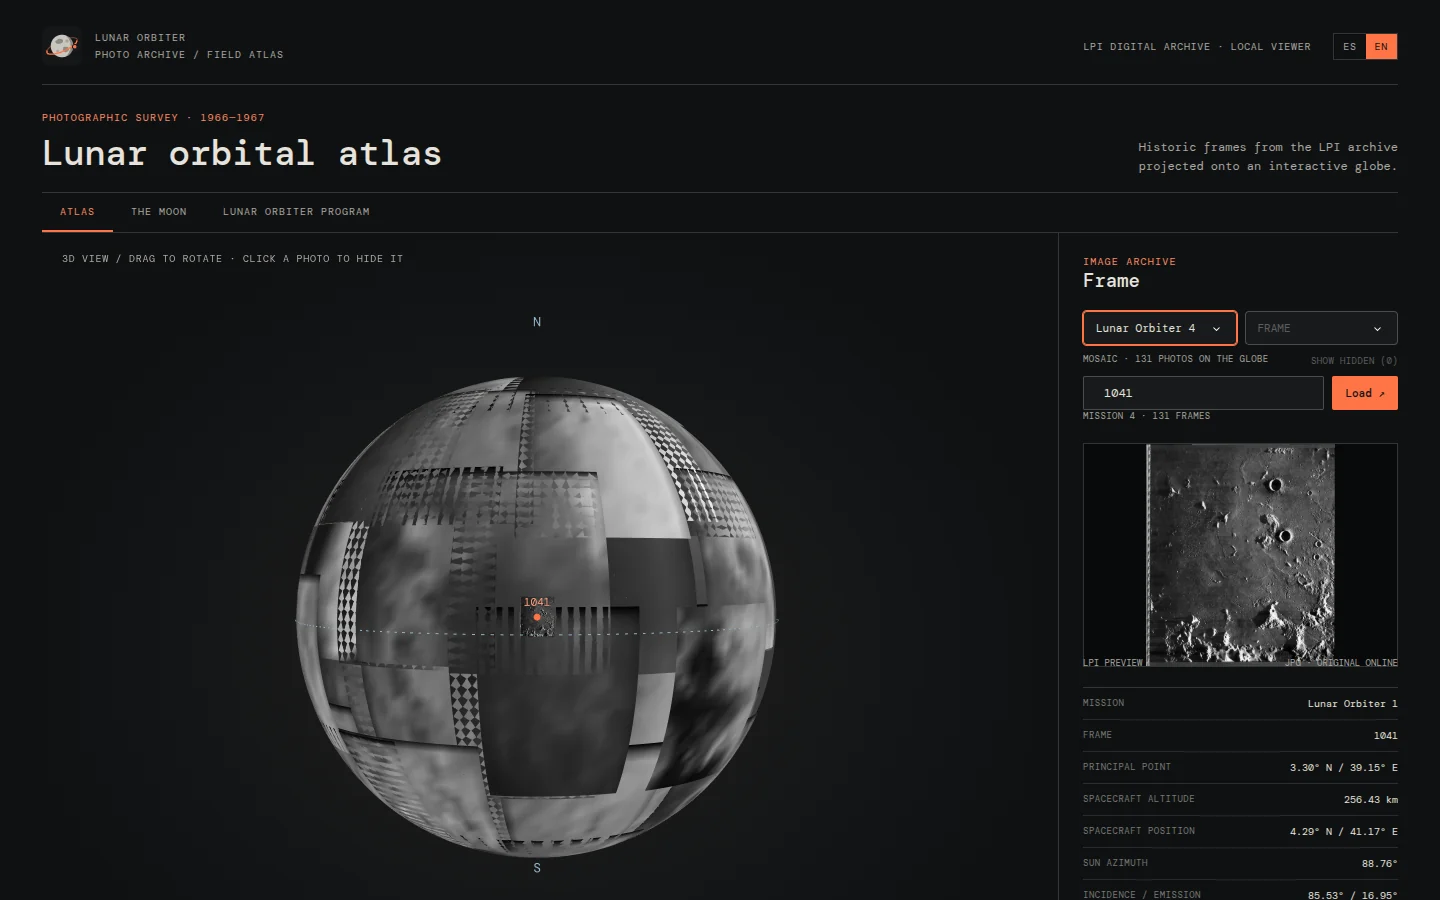
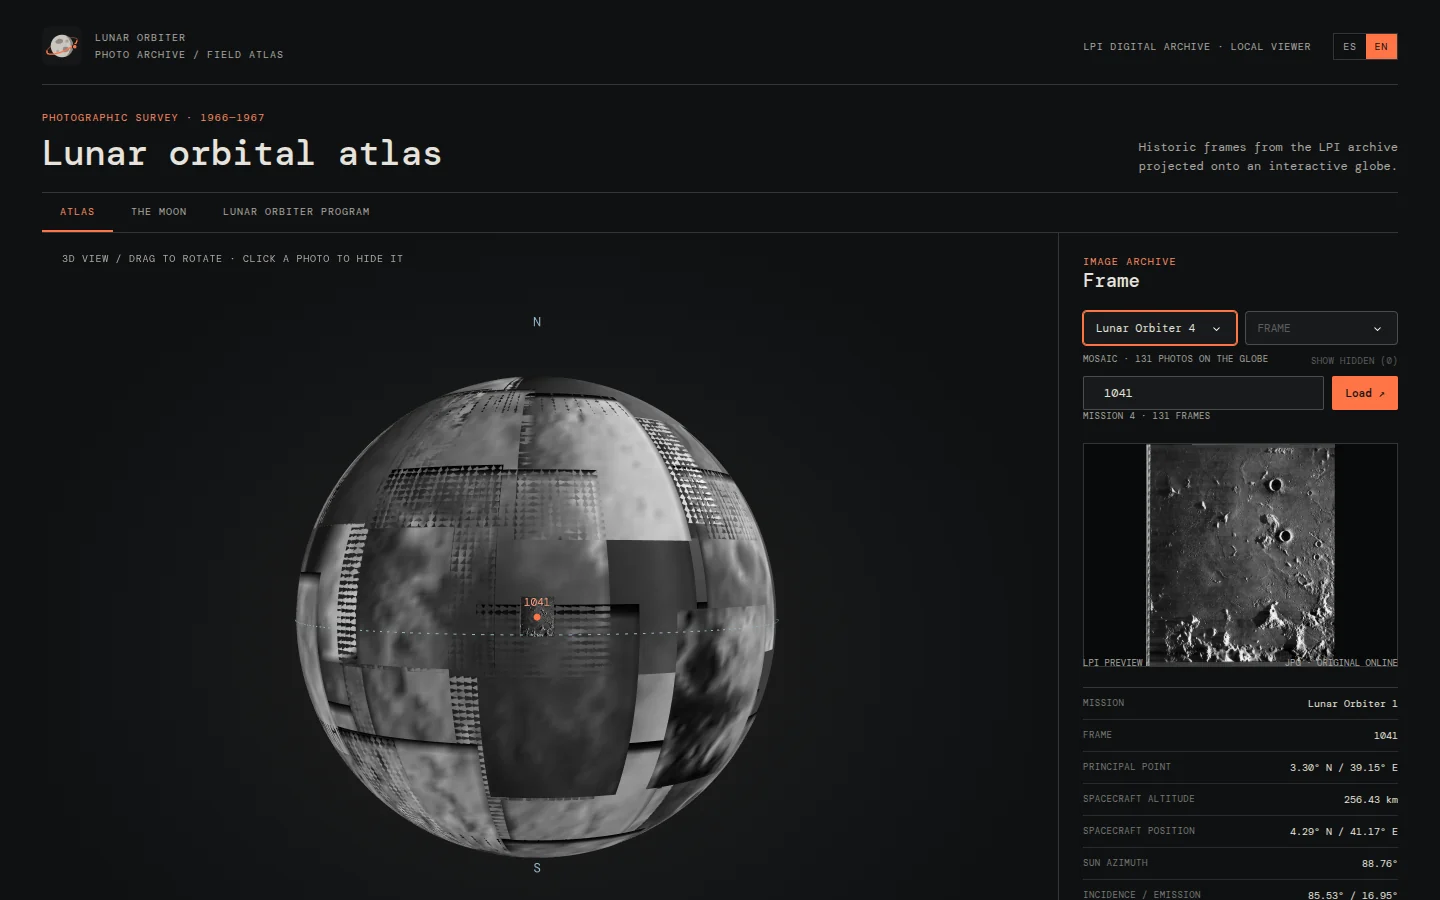
Scale tile resolution with photo size under a vertex budget
Plotly colours meshes per vertex, so resolution costs vertices. Tiles now get
3 px per degree (10–48 px) and the mosaic is capped at 90,000 vertices:
missions 1–3 get lighter while large high-altitude frames go from 20 px to
48 px (30 px for mission 4, at the cap). Intensity is sent as uint8 and frame
IDs as int16. Refresh the site screenshots.

diff --git a/orbiter/globe.py b/orbiter/globe.py
@@ -18,6 +18,7 @@ from dataclasses import dataclass
 
 import numpy as np
 import plotly.graph_objects as go
+from PIL import Image
 
 ACCENT = "#ff7547"
 BASE_SURFACE_VALUE = 112.0
@@ -38,6 +39,13 @@ REFERENCE_COLOR = "#8fb3c9"
 # Pole labels sit just outside the sphere; the axis range must include them.
 POLE_LABEL_HEIGHT = 1.18
 AXIS_LIMIT = 1.25
+# Plotly colours meshes per vertex, so every texture pixel is a vertex. Tiles get
+# pixels in proportion to their size on the globe, within these bounds, and the
+# whole mosaic is scaled down to stay under the vertex budget.
+TILE_PIXELS_PER_DEGREE = 3.0
+MIN_TILE_PIXELS = 10
+MAX_TILE_PIXELS = 48
+MESH_VERTEX_BUDGET = 90_000
 GRAY_SCALE = [[0.0, "#000000"], [1.0, "#ffffff"]]
 NO_CONTOURS = {axis: {"highlight": False} for axis in ("x", "y", "z")}
 
@@ -236,22 +244,70 @@ def _grid_triangles(height: int, width: int, offset: int) -> np.ndarray:
     )
 
 
+def _resized(texture: np.ndarray, long_side: int) -> np.ndarray:
+    """Resize a texture so its longer side is ``long_side``, keeping its aspect."""
+    height, width = texture.shape
+    scale = long_side / max(height, width)
+    size = (max(2, round(width * scale)), max(2, round(height * scale)))
+    if size == (width, height):
+        return texture
+    image = Image.fromarray(texture).resize(size, Image.Resampling.LANCZOS)
+    return np.asarray(image, dtype=np.uint8)
+
+
+def tile_textures(tiles: list[GlobeImage]) -> list[np.ndarray]:
+    """Choose each tile's mesh resolution from its size on the globe.
+
+    Big patches (high-altitude frames) get up to ``MAX_TILE_PIXELS`` on their
+    longer side and tiny ones ``MIN_TILE_PIXELS``. If the mosaic would exceed
+    ``MESH_VERTEX_BUDGET`` vertices, every tile shrinks by the same factor.
+    Textures are never enlarged beyond what the tile provides.
+    """
+    wanted = [
+        min(
+            max(
+                round(TILE_PIXELS_PER_DEGREE * patch_width_degrees(tile.altitude_km)),
+                MIN_TILE_PIXELS,
+            ),
+            MAX_TILE_PIXELS,
+            max(tile.texture.shape),
+        )
+        for tile in tiles
+    ]
+    # Vertices are about long_side² × aspect, so area scales with the square.
+    area = sum(
+        side * side * min(tile.texture.shape) / max(tile.texture.shape)
+        for side, tile in zip(wanted, tiles, strict=True)
+    )
+    factor = min(1.0, math.sqrt(MESH_VERTEX_BUDGET / area)) if area else 1.0
+    return [
+        _resized(tile.texture, max(2, math.floor(side * factor)))
+        for side, tile in zip(wanted, tiles, strict=True)
+    ]
+
+
 def _tiles_mesh(tiles: list[GlobeImage]) -> go.Mesh3d:
     """Merge every tile into one mesh: one WebGL draw call instead of hundreds.
 
-    Frame IDs travel as numeric per-vertex ``customdata`` (sent in binary),
-    which keeps the payload small while still labelling each photo on hover.
+    Frame IDs travel as per-vertex ``int16`` ``customdata`` and brightness as
+    ``uint8`` intensity; Plotly sends both in binary, which keeps the payload
+    small while still labelling each photo on hover.
     """
     coordinates, intensities, triangles, frame_ids = [], [], [], []
     offset = 0
-    for index, tile in enumerate(tiles):
+    for index, (tile, texture) in enumerate(
+        zip(tiles, tile_textures(tiles), strict=True)
+    ):
         radius = TILE_RADIUS + TILE_RADIUS_STEP * (index % 7)
-        grid = np.stack([axis.ravel() for axis in _patch_grid(tile, radius)], axis=1)
-        height, width = tile.texture.shape
+        resized = GlobeImage(
+            tile.frame_id, tile.latitude, tile.longitude, tile.altitude_km, texture
+        )
+        grid = np.stack([axis.ravel() for axis in _patch_grid(resized, radius)], axis=1)
+        height, width = texture.shape
         coordinates.append(grid)
-        intensities.append(tile.texture.ravel())
+        intensities.append(texture.ravel())
         triangles.append(_grid_triangles(height, width, offset))
-        frame_ids.append(np.full(len(grid), int(tile.frame_id), dtype=np.int32))
+        frame_ids.append(np.full(len(grid), int(tile.frame_id), dtype=np.int16))
         offset += len(grid)
 
     vertices = np.concatenate(coordinates).astype(np.float32)
@@ -263,7 +319,7 @@ def _tiles_mesh(tiles: list[GlobeImage]) -> go.Mesh3d:
         i=faces[:, 0],
         j=faces[:, 1],
         k=faces[:, 2],
-        intensity=np.concatenate(intensities).astype(np.float32),
+        intensity=np.concatenate(intensities),
         intensitymode="vertex",
         colorscale=GRAY_SCALE,
         cmin=0,

diff --git a/tests/test_globe.py b/tests/test_globe.py
@@ -4,6 +4,9 @@ import pytest
 from orbiter.globe import (
     FALLBACK_PATCH_DEGREES,
     MAX_PATCH_DEGREES,
+    MAX_TILE_PIXELS,
+    MESH_VERTEX_BUDGET,
+    MIN_TILE_PIXELS,
     GlobeImage,
     _to_cartesian,
     format_coordinates,
@@ -11,17 +14,20 @@ from orbiter.globe import (
     make_globe,
     patch_contains,
     patch_width_degrees,
+    tile_textures,
     visible_images,
 )
 
 
-def _image(frame_id="1041", latitude=3.3, longitude=39.15, altitude_km=256.43):
+def _image(
+    frame_id="1041", latitude=3.3, longitude=39.15, altitude_km=256.43, size=(32, 24)
+):
     return GlobeImage(
         frame_id=frame_id,
         latitude=latitude,
         longitude=longitude,
         altitude_km=altitude_km,
-        texture=np.full((32, 24), 160, dtype=np.uint8),
+        texture=np.full(size, 160, dtype=np.uint8),
     )
 
 
@@ -99,8 +105,10 @@ def test_make_globe_draws_tiles_selection_and_marker():
         "scatter3d",
     )
     assert set(np.asarray(mosaic.customdata)) == {1042}
-    assert len(mosaic.x) == 32 * 24
-    assert len(mosaic.i) == 2 * 31 * 23
+    # A 6.3° patch gets 19 px on its long side: a 19 × 14 vertex grid.
+    assert len(mosaic.x) == 19 * 14
+    assert len(mosaic.i) == 2 * 18 * 13
+    assert np.asarray(mosaic.intensity).dtype == np.uint8
     assert int(np.max(mosaic.i)) < len(mosaic.x)
     assert selected.name == "1041"
     assert list(figure.data[-1].text) == ["1041"]
@@ -128,3 +136,31 @@ def test_patch_contains_handles_the_180_degree_meridian():
     assert patch_contains(east_edge, 0, -179.5)
     assert patch_contains(east_edge, 0, 180.5)
     assert not patch_contains(east_edge, 0, 0)
+
+
+def test_tile_textures_scale_with_patch_size():
+    small = _image("1001", altitude_km=50, size=(48, 41))
+    large = _image("4001", altitude_km=3000, size=(48, 41))
+
+    small_texture, large_texture = tile_textures([small, large])
+
+    assert max(small_texture.shape) == MIN_TILE_PIXELS
+    assert max(large_texture.shape) == MAX_TILE_PIXELS
+
+
+def test_tile_textures_never_enlarge():
+    (texture,) = tile_textures([_image(altitude_km=3000, size=(12, 10))])
+
+    assert texture.shape == (12, 10)
+
+
+def test_tile_textures_respect_the_vertex_budget():
+    tiles = [
+        _image(str(4000 + index), altitude_km=3000, size=(48, 41))
+        for index in range(200)
+    ]
+
+    textures = tile_textures(tiles)
+
+    assert sum(texture.size for texture in textures) <= MESH_VERTEX_BUDGET
+    assert max(textures[0].shape) < MAX_TILE_PIXELS

diff --git a/orbiter/catalog.py b/orbiter/catalog.py
@@ -31,13 +31,14 @@ import numpy as np
 import requests
 from PIL import Image
 
-from orbiter.globe import GlobeImage
+from orbiter.globe import MAX_TILE_PIXELS, GlobeImage
 from orbiter.lpi import USER_AGENT, fetch_mission_frames, parse_frame_page
 from orbiter.urls import ORBITER_URL, frame_url
 
 REQUEST_DELAY_SECONDS = 0.25
 DOWNLOAD_WORKERS = 3
-TILE_SIZE = (20, 20)
+# Stored at the largest size the globe may use; it downsizes per tile.
+TILE_SIZE = (MAX_TILE_PIXELS, MAX_TILE_PIXELS)
 
 
 def default_cache_dir() -> Path:

diff --git a/CLAUDE.md b/CLAUDE.md
@@ -35,6 +35,10 @@ make format    # ruff --fix + ruff format (obligatorio antes de commit)
   más resolución, marcador, ecuador y polos N/S (`hoverinfo="skip"` para que no roben
   clicks). Tamaño de cada foto según la altitud de la nave (`patch_width_degrees`).
   El click se resuelve por geometría (`image_at`), no por índices de traza.
+  Plotly colorea por vértice (1 píxel = 1 vértice): `tile_textures` reparte la
+  resolución según el tamaño de cada foto con un tope de `MESH_VERTEX_BUDGET`;
+  `TileStore` guarda miniaturas de hasta `MAX_TILE_PIXELS`. Mide el coste (tamaño
+  de `fig.to_json()` y `Plotly.react`) antes de subir esos límites.
 - `orbiter/catalog.py` — `MissionLoader` descarga en hilos todas las fotos de una
   misión; `TileStore` cachea página+miniatura en `data/lpi/` (escritura atómica,
   sin caducidad: se recarga borrando la carpeta), 3 workers con un límite
@@ -83,3 +87,6 @@ make format    # ruff --fix + ruff format (obligatorio antes de commit)
   no escribe en `/tmp`, usa `outputs/`). Para parar la app usa `make run` (para la
   anterior) o `pgrep -f "python -m orbiter[.]app"`: con `pkill -f orbiter.app` el
   patrón coincide con el propio shell y lo mata.
+- En Chromium headless (render por software) los clicks 3D de Plotly fallan a veces:
+  tras mover el ratón espera ~1 s y comprueba que el click se registró antes de
+  medir tiempos.

diff --git a/PLAN.md b/PLAN.md
@@ -38,15 +38,16 @@
       barra superior de la app.
 - [x] Página del proyecto en `site/` para GitHub Pages (bilingüe, capturas, cómo
       ejecutarla, fuentes y licencias) y workflow `pages.yml`.
+- [x] Texturas según el tamaño de cada foto: 3 px/grado entre 10 y 48 px, con un
+      tope de 90 000 vértices para todo el mosaico (`tile_textures`). Las misiones
+      1–3 pesan un 32–70 % menos; las fotos grandes pasan de 20 a 48 px (30 px en la
+      misión 4, que va al tope: 87 000 vértices, 5,4 MB de figura). Coste medido:
+      +0,17 s en servidor y +0,3–0,6 s de redibujado con render por software.
 
 ## Pendiente
 
 
 - [ ] Hacer push y comprobar la primera ejecución de la CI y del despliegue de
       Pages (activar antes Settings → Pages → Source: GitHub Actions).
-- [ ] Texturas más nítidas para las fotos grandes (misión 4 y tomas altas): hoy
-      todas usan 20 px (`TILE_SIZE`). Escalar la resolución con el tamaño del
-      parche sin disparar el peso de la figura (la misión 4 entera pesa hoy
-      ~63 000 vértices).
 - [ ] Las tomas oblicuas de gran altitud (p. ej. las de la Tierra de las misiones
       1–3) quedan deformadas: valorar marcarlas u ocultarlas por defecto.
